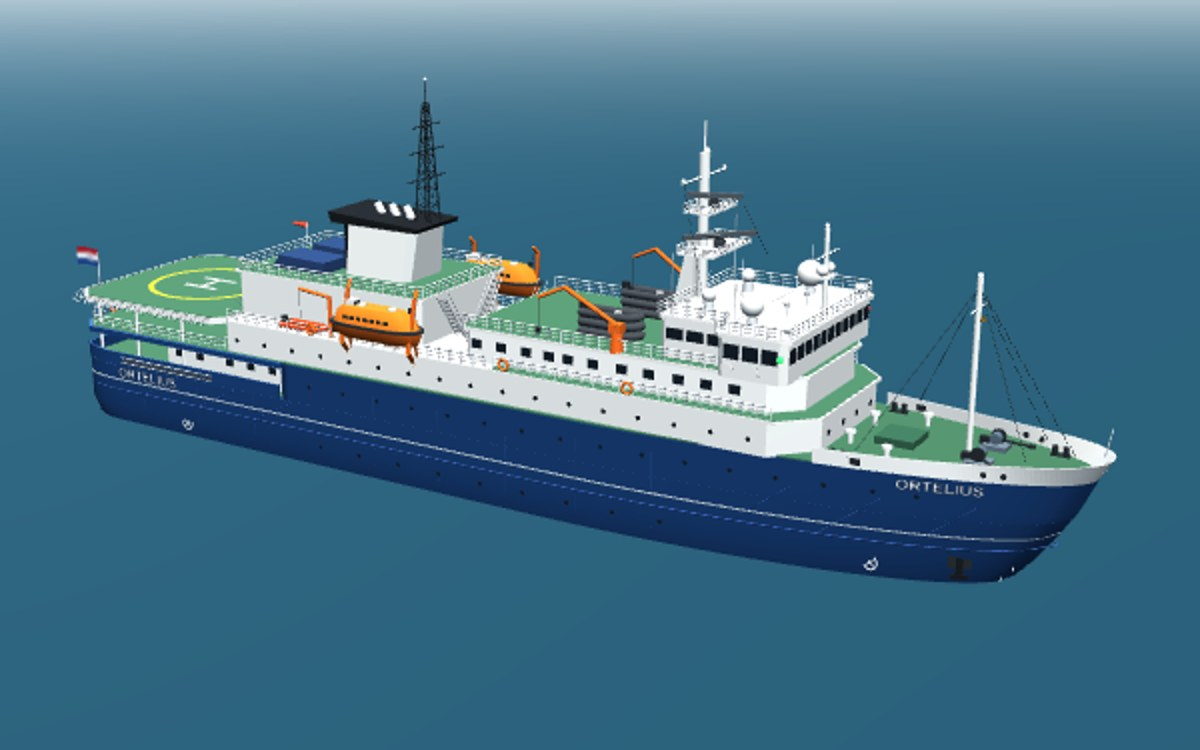
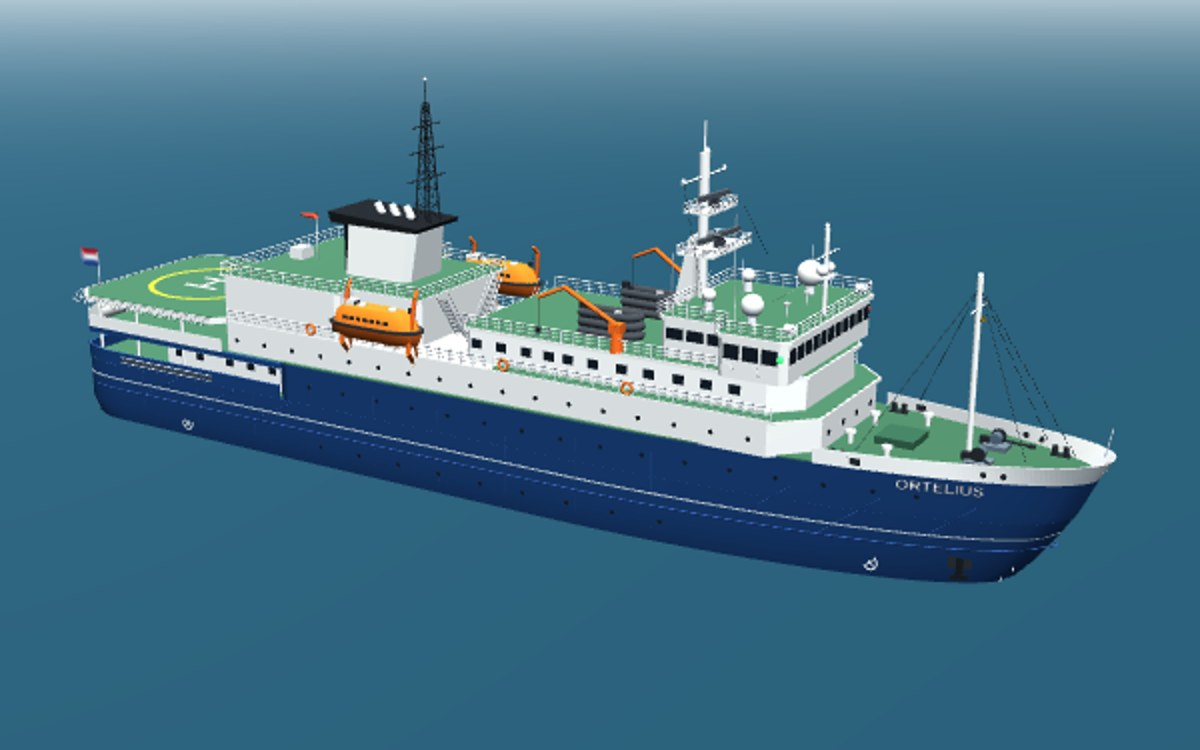
Werk hangar, helidek en promenadedek van de Ortelius uit naar de achteraanzichten
- Hangar bijna scheepsbreed tot x 29,8 met een grote deuropening naar het
  helidek (12,4 breed, afgeschuinde bovenhoeken); smaller rond de schoorsteen.
- Hangardak zonder blauwe dekzeilen: een witte kast en de windzakmast in
  het midden.
- Dichte witte verschansing rond het promenadedek onder het helidek, met
  een grote witte tank dwarsscheeps tegen de spiegel.
- Scheepsnaam alleen nog op de spiegel, niet op de zijkant van het achterschip.
- ONTWERP.md (incl. fotolijst t/m 33) en de render bijgewerkt.

Claude-Session: https://claude.ai/code/session_01WyfijxrvxhjH7jtW2rbvRx

diff --git a/3d-models/ortelius/index.html b/3d-models/ortelius/index.html
@@ -477,8 +477,6 @@ li:has(input:checked) .name { text-decoration: line-through; color: var(--muted)
       var x = 80.5, y = 13.1, slope = (hwAt(x - 3, y) - hwAt(x + 3, y)) / 6;
       var nm = new THREE.Mesh(new THREE.PlaneGeometry(6.4, 1.2), new THREE.MeshBasicMaterial({ map: textTex([['ORTELIUS', 96, 55]], 512, 110, '#ffffff'), transparent: true }));
       nm.position.set(x, y, s * (hwAt(x, y) + 0.05)); nm.rotation.y = (s < 0 ? Math.PI : 0) + s * slope; ship.add(nm);
-      var st = new THREE.Mesh(new THREE.PlaneGeometry(7, 1.48), new THREE.MeshBasicMaterial({ map: textTex([['ORTELIUS', 100, 55]], 512, 110, '#ffffff'), transparent: true }));
-      st.position.set(8.5, 10.0, s * (hwAt(8.5, 13.18) + 0.05)); if (s < 0) st.rotation.y = Math.PI; ship.add(st);
     });
     var tr = new THREE.Mesh(new THREE.PlaneGeometry(8, 2.8), new THREE.MeshBasicMaterial({ map: textTex([['ORTELIUS', 110, 70], ['VLISSINGEN', 54, 165]], 512, 210, '#ffffff'), transparent: true }));
     tr.rotation.y = -Math.PI / 2; tr.position.set(-0.04, 8.5, 0); ship.add(tr);
@@ -554,11 +552,22 @@ li:has(input:checked) .name { text-decoration: line-through; color: var(--muted)
     });
   });
   // Hangar: van de helidekrand (x 17,5) tot voor de sloepen, ~3,8 cm hoog (zijfoto 07-11).
+  // Brede hangar (foto's 32/33): bijna scheepsbreed tot x 29,8, daarvoor smaller rond de schoorsteen.
+  // Grote deuropening met afgeschuinde bovenhoeken naar het helidek.
+  top.add(slab(plan(17.5,29.8,8.0,0.2,0.4), A1, HG, whiteMat));
   top.add(slab(plan(17.5,36.5,5.9,0.2,0.4), A1, HG, whiteMat));
-  top.add(box(0.06,HG-0.35-HD,9.4,darkMat,17.46,(HD+HG-0.35)/2,0));
-  [-4.85,4.85].forEach(function(z) { top.add(box(0.1,HG-0.3-HD,0.2,greyMat,17.41,(HD+HG-0.3)/2,z)); });
-  top.add(slab(plan(17.3,37,6.4,0.25,0.4), HG, HG+0.17, whiteMat));
-  top.add(slab(plan(17.5,36.8,6.2,0.25,0.4), HG+0.17, HG+0.2, greenMat));
+  (function () {
+    var dh = HG - 0.4 - HD, dw = 12.4, yc = HD + dh / 2;
+    top.add(box(0.06, dh, dw, darkMat, 17.46, yc, 0));
+    [-1, 1].forEach(function (z) {
+      var c = box(0.09, 1.1, 1.1, whiteMat, 17.44, HG - 0.4, z * dw / 2); c.rotation.x = Math.PI / 4; top.add(c);
+      top.add(box(0.12, dh + 0.1, 0.25, greyMat, 17.41, yc, z * (dw / 2 + 0.1)));
+    });
+    top.add(box(0.12, 0.25, dw + 0.4, greyMat, 17.41, HG - 0.33, 0));
+  })();
+  var hangarDeck = [[17.3,-8.2],[30.0,-8.2],[30.0,-6.4],[37.0,-6.4],[37.0,6.4],[30.0,6.4],[30.0,8.2],[17.3,8.2]];
+  top.add(slab(hangarDeck, HG, HG+0.17, whiteMat));
+  top.add(slab(hangarDeck.map(function (p) { return [p[0] + (p[0] < 20 ? 0.15 : -0.15), p[1] - Math.sign(p[1]) * 0.15]; }), HG+0.17, HG+0.2, greenMat));
 
   // Helidek met afgeschuinde hoeken, randligger en open veiligheidsnetten.
   var heliPlan = plan(0.0,17.5,8.9,1.8,1.0);
@@ -608,9 +617,9 @@ li:has(input:checked) .name { text-decoration: line-through; color: var(--muted)
     rBlack.add(V(cx,y1,0),V(cx,37.4,0),0.045);
     var light = new THREE.Mesh(new THREE.SphereGeometry(0.12,8,6),lampMat);light.position.set(cx,37.4,0);fg.add(light);
   })();
-  var tarp = new THREE.MeshStandardMaterial({color:'#243d68',roughness:0.9});
+
   [-1,1].forEach(function(side) {
-    top.add(sidePanel([[19.6,HG+0.2],[25.2,HG+0.2],[25.2,HG+1.2],[20.4,HG+1.35]],3.2,tarp,side*2.35));
+    if (side < 0) top.add(box(1.4, 1.0, 1.6, whiteMat, 19.6, HG + 0.7, 0));
   });
 
   // ---------- Enclosed lifeboats on big orange A-frame davits ----------
@@ -809,8 +818,12 @@ li:has(input:checked) .name { text-decoration: line-through; color: var(--muted)
       [0.66, 0.33].forEach(function (f) { rods.add(V(a[0], y + h * f, a[1]), V(b[0], y + h * f, b[1]), 0.03); });
     }
   }
-  var promenadeRail=plan(0.6,17.3,8.35,1.6,0.4);promenadeRail.push(promenadeRail[0]);
-  railing(rTop,promenadeRail,MAIN+0.06,0.95);
+  // Dichte witte verschansing rond het promenadedek onder het helidek (foto's 30/32/33).
+  top.add(wallStrip([[17.5,-8.7],[1.85,-8.7],[0.2,-7.05],[0.2,7.05],[1.85,8.7],[17.5,8.7]], 9, MAIN - 0.02, function () { return 1.12; }, function () { return 0; }, 0.14, whiteMat));
+  // Grote witte tank dwarsscheeps tegen de spiegel, stuurboordzijde (foto 33).
+  var tank = new THREE.Mesh(new THREE.CylinderGeometry(0.75, 0.75, 6.4, 20), new THREE.MeshStandardMaterial({ color: '#dcdcd4', roughness: 0.6 }));
+  tank.rotation.x = Math.PI / 2; tank.position.set(1.4, MAIN + 0.85, 4.0); top.add(tank);
+  [1.3, 6.7].forEach(function (z) { top.add(box(0.9, 0.2, 0.25, greyMat, 1.4, MAIN + 0.1, z)); });
   [-1,1].forEach(function(side) {
     railing(rTop,[[17.8,side*8.0],[44.2,side*8.0]],A1,0.95);
     railing(rTop,[[45,side*8.0],[68.6,side*8.0]],A1+0.1,0.95);
@@ -818,7 +831,7 @@ li:has(input:checked) .name { text-decoration: line-through; color: var(--muted)
   });
   var compassRail=[[63.5,-6.05],[69.1,-6.05],[69.1,-8.05],[74.2,-8.05],[74.7,-7.55],[74.7,7.55],[74.2,8.05],[69.1,8.05],[69.1,6.05],[63.5,6.05],[63.5,-6.05]].map(function(p){return [p[0]+BDX,p[1]];});
   railing(rTop,compassRail,CD+BL+0.04,0.9);
-  var hangarRail=plan(17.6,36.8,6.15,0.25,0.4);hangarRail.push(hangarRail[0]);
+  var hangarRail=[[17.4,-8.05],[29.9,-8.05],[29.9,-6.25],[36.85,-6.25],[36.85,6.25],[29.9,6.25],[29.9,8.05],[17.4,8.05],[17.4,-8.05]];
   railing(rTop,hangarRail,HG+0.2,0.9);
 
   // stairs: aft deckhouse -> forward block roof, forward block -> bridge roof, helideck -> aft deckhouse
@@ -853,9 +866,9 @@ li:has(input:checked) .name { text-decoration: line-through; color: var(--muted)
     flag = new THREE.Mesh(geo, new THREE.MeshStandardMaterial({ map: new THREE.CanvasTexture(c), side: THREE.DoubleSide, roughness: 0.8 }));
     flag.position.set(1.28, HD + 2.9, 6.5); top.add(flag);
     flagBase = geo.attributes.position.array.slice();
-    rTop.add(V(14, HD, -7.6), V(14, HD + 5, -7.6), 0.06);
+    rTop.add(V(21.4, HG + 0.2, 0), V(21.4, HG + 4.2, 0), 0.06);
     var sock = new THREE.Mesh(new THREE.CylinderGeometry(0.12, 0.3, 1.6, 10, 1, true), new THREE.MeshStandardMaterial({ color: '#e8452c', side: THREE.DoubleSide }));
-    sock.rotation.z = Math.PI / 2; sock.position.set(13.2, A1 + 4.9, -7.6); top.add(sock);
+    sock.rotation.z = Math.PI / 2; sock.position.set(20.6, HG + 4.1, 0); top.add(sock);
   })();
 
   [rShip, rShipDark, rLines, rShipWhite].forEach(function (r) { ship.add(r.build()); });

diff --git a/3d-models/ortelius/ONTWERP.md b/3d-models/ortelius/ONTWERP.md
@@ -28,7 +28,8 @@ browsermodel berekende waterverplaatsing of stabiliteitscontrole.
 
 ## Fotocontrole en wijzigingen
 
-De 17 foto's staan lokaal in `images/ortelius-01.jpg` t/m `ortelius-17.jpg`.
+De foto's staan lokaal in `images/ortelius-01.jpg` t/m `ortelius-33.jpg`
+(30 = zuivere zijfoto, 32/33 = achteraanzichten, 31 = kleine luchtfoto).
 Ze zijn buiten Git gehouden; het browsermodel laadt ze niet. De foto's tonen
 verschillende kleurstellingen en uitrusting. De geometrie hieronder is een
 vormstudie op basis van die verzameling, geen vastgelegde historische toestand.
@@ -40,6 +41,7 @@ vormstudie op basis van die verzameling, geen vastgelegde historische toestand.
 | Zijfoto 07-11 (ronde 5) | Achterschip, schoorsteen en voorsteven | Schoorsteen 4,5 cm naar achteren met een naar achteren oplopende kap, de mast tegen het front en drie uitlaten op een rij. Hangar loopt van 17,5 tot 36,5 en is 3,9 cm hoog. Helidek ingekort tot 0–17,5. Dek 1 loopt door tot de hangar en dek 2 eindigt met een rechte achterwand op x 41,4. Sloepen en davits 1,8 lager. Voorsteven sterker hellend (waterlijn x 84,6, dek x 90); witte, bijna vlakke verschansing met verhaalgaten tot de punt op x 91; ankerkuil lager in de boeg |
 | Zijfoto 07-11 (ronde 6) | Bakverschansing, achterschip en valreep | Verschansing voor is nu één doorlopende wand precies op de dekrand die naar de punt toe naar buiten uitwaaiert, zonder losse blokken of naden. Achterschip: blauwe romp tot 11,9 met daarboven open poorten tot het dek en een teruggezette witte wand met ramen; de dekrand is blauw. Valreep aan bakboord uitgezet (x 13,8 → 19,9) met bordes en rode boei, aan stuurboord gestuwd. Boegschroefmerken met kruis voor en achter. Trap van het sloependek naar het hangardak teruggezet |
 | Luchtfoto 07-11 (klein) | Dekkleuren van boven | Kompasdek groen in plaats van grijs, zoals de overige dekken; verder bevestigt de foto de indeling van de bak, de brug met de radarmast achteraan en de sloepen |
+| 32, 33 (achteraanzichten) | Hangar, helidek en promenadedek | Hangar bijna scheepsbreed tot x 29,8 met een grote deuropening (12,4 breed, afgeschuinde bovenhoeken). Hangardak zonder blauwe dekzeilen: een witte kast en de windzakmast in het midden. Dichte witte verschansing rond het promenadedek onder het helidek, met een grote witte tank dwarsscheeps tegen de spiegel. Scheepsnaam alleen nog op de spiegel, niet op de zijkant |
 | 03, 07, 11, 15 | Getrapte spiegel en open achterdekken | Lagere achterromp en twee open niveaus met kolommen en witte randliggers |
 | 05, 14 | Helidek, hangaringang en veiligheidsnetten | Groter, afgeschuind helidek met open netstructuur en zichtbare hangaringang |
 | 06, 09, 14 | Schoorsteenkap, uitlaten, mast en davits | Schuine witte mantel, oplopende zwarte kap, drie mastarmen en geknikte sloepdavits |
@@ -64,7 +66,7 @@ boven het water (zoals op de zijfoto); aan stuurboord ligt hij gestuwd tegen de 
 | Hoger dekhuis (dek 2) | 41,4–69,8 | 16,6–19,3 | Smaller; rechte achterwand |
 | Brug | 64,1–69,6 stuurhuis, 58,5–64,3 dekhuis | 19,3–22,3 | Recht front, stuurhuis max. 16,0 breed, dekhuis 12,0 |
 | Kompasdek | 58,3–69,9 | 22,6 | Max. 16,5 voor, 12,4 achter; naambord ORTELIUS aan beide zijden |
-| Hangar | 17,5–36,5 | 16,6–20,5 | Max. 11,8; deur naar het helidek |
+| Hangar | 17,5–29,8 breed / tot 36,5 smal | 16,6–20,5 | Max. 16,0, rond de schoorsteen 11,8; deur 12,4 breed naar het helidek |
 | Helidek | 0–17,5 | 16,75 | Max. 17,8 zonder netten |
 | Schoorsteen | ca. 25,0–34,4 | 20,7–26,0 | Kap loopt naar achteren op, drie uitlaten |
 | Sloepen | middelpunt 34,6 | onderzijde 17,65 | Twee gesloten sloepen met geknikte davits |
